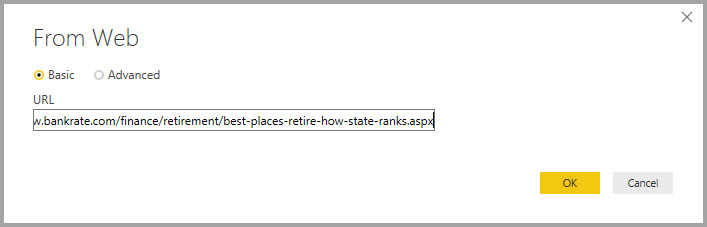
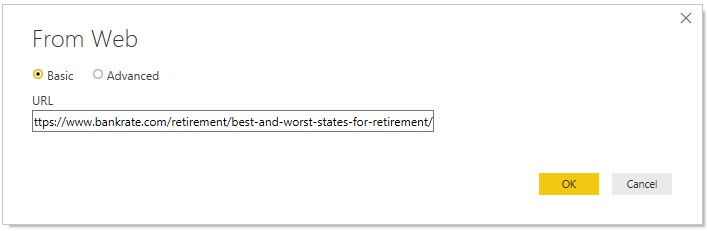
Updating screenshots to address bug.

Changed region(s): [[0.0, 0.0, 1.0, 1.0], [0.7468, 0.7401, 0.9335, 0.8634]]

diff --git a/learn-bizapps-pr/power-bi/build-your-first-power-bi-report/includes/2-connect-to-data-sources-in-power-bi-desktop.md b/learn-bizapps-pr/power-bi/build-your-first-power-bi-report/includes/2-connect-to-data-sources-in-power-bi-desktop.md
@@ -1,6 +1,6 @@
 Now that Microsoft Power BI Desktop is installed, you're ready to connect to the ever-expanding world of data. There are *all sorts* of data sources available in the Microsoft Power Query for Excel window. The following image shows how to connect to data by selecting the **Home** tab on the ribbon and then selecting **Get Data \> More**.
 
-![Get data](../media/TC-DesktopIntro.gif)
+![Get data](../media/pbid-getdata-button.png)
 
 In this unit, we'll connect to a couple different **Web** data sources.
 
@@ -11,7 +11,9 @@ Either way, the following web resource has interesting data about those topics, 
 <a href="https://go.microsoft.com/fwlink/?linkid=2050811" target="_blank">Best places to retire state rank</a>  
 
 
-Select **Get Data \> Web**, and paste the address.
+Select **Get Data \> Web**, and paste the address:
+
+`https://www.bankrate.com/retirement/best-and-worst-states-for-retirement/`
 
 ![Connect to web data](../media/pbid-getdata_01.jpg)
 
@@ -19,9 +21,9 @@ When you select **OK**, the **Query** functionality of Power BI Desktop goes to 
 
 ![The Navigator window](../media/pbid-getdata_02.jpg)
 
-At this point, you can edit the query before loading the table, by selecting **Edit** at the bottom of the window. Or, you can just load the table.
+At this point, you can edit the query before loading the table, by selecting **Transform data** at the bottom of the window. Or, you can just load the table.
 
-When you select **Edit**, Power Query Editor starts, and a representative view of the table is shown. The **Query Settings** pane appears (if it doesn't, select the **View** tab on the ribbon, then select **Show \> Query Settings**). Here's what it looks like.
+When you select **Transform data**, Power Query Editor starts, and a representative view of the table is shown. The **Query Settings** pane appears (if it doesn't, select the **View** tab on the ribbon, then select **Show \> Query Settings**). Here's what it looks like.
 
 ![Power Query Editor window](../media/pbid-getdata_03.jpg)
 
